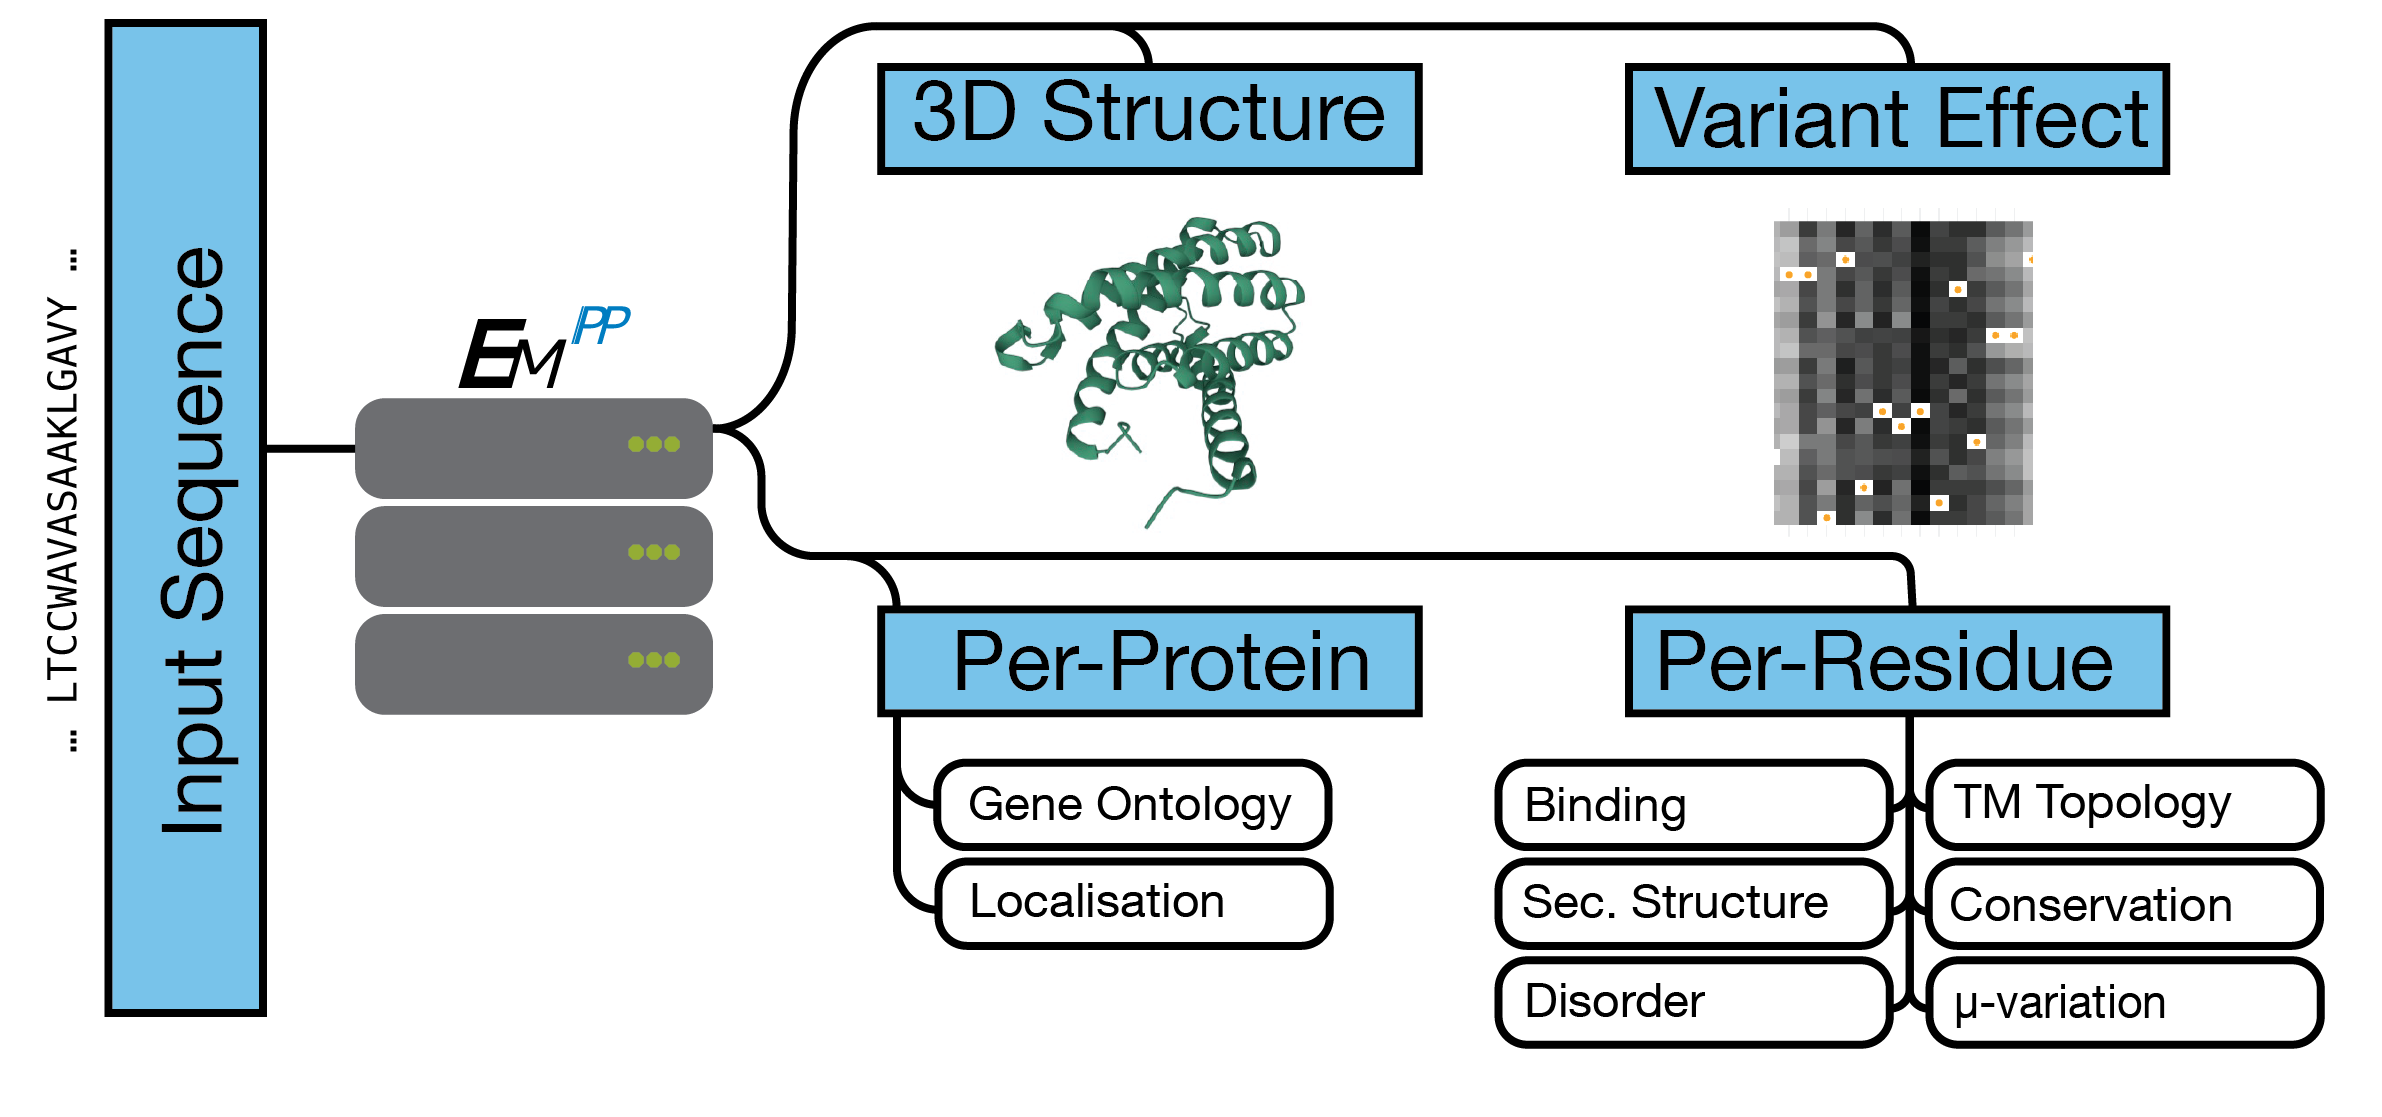
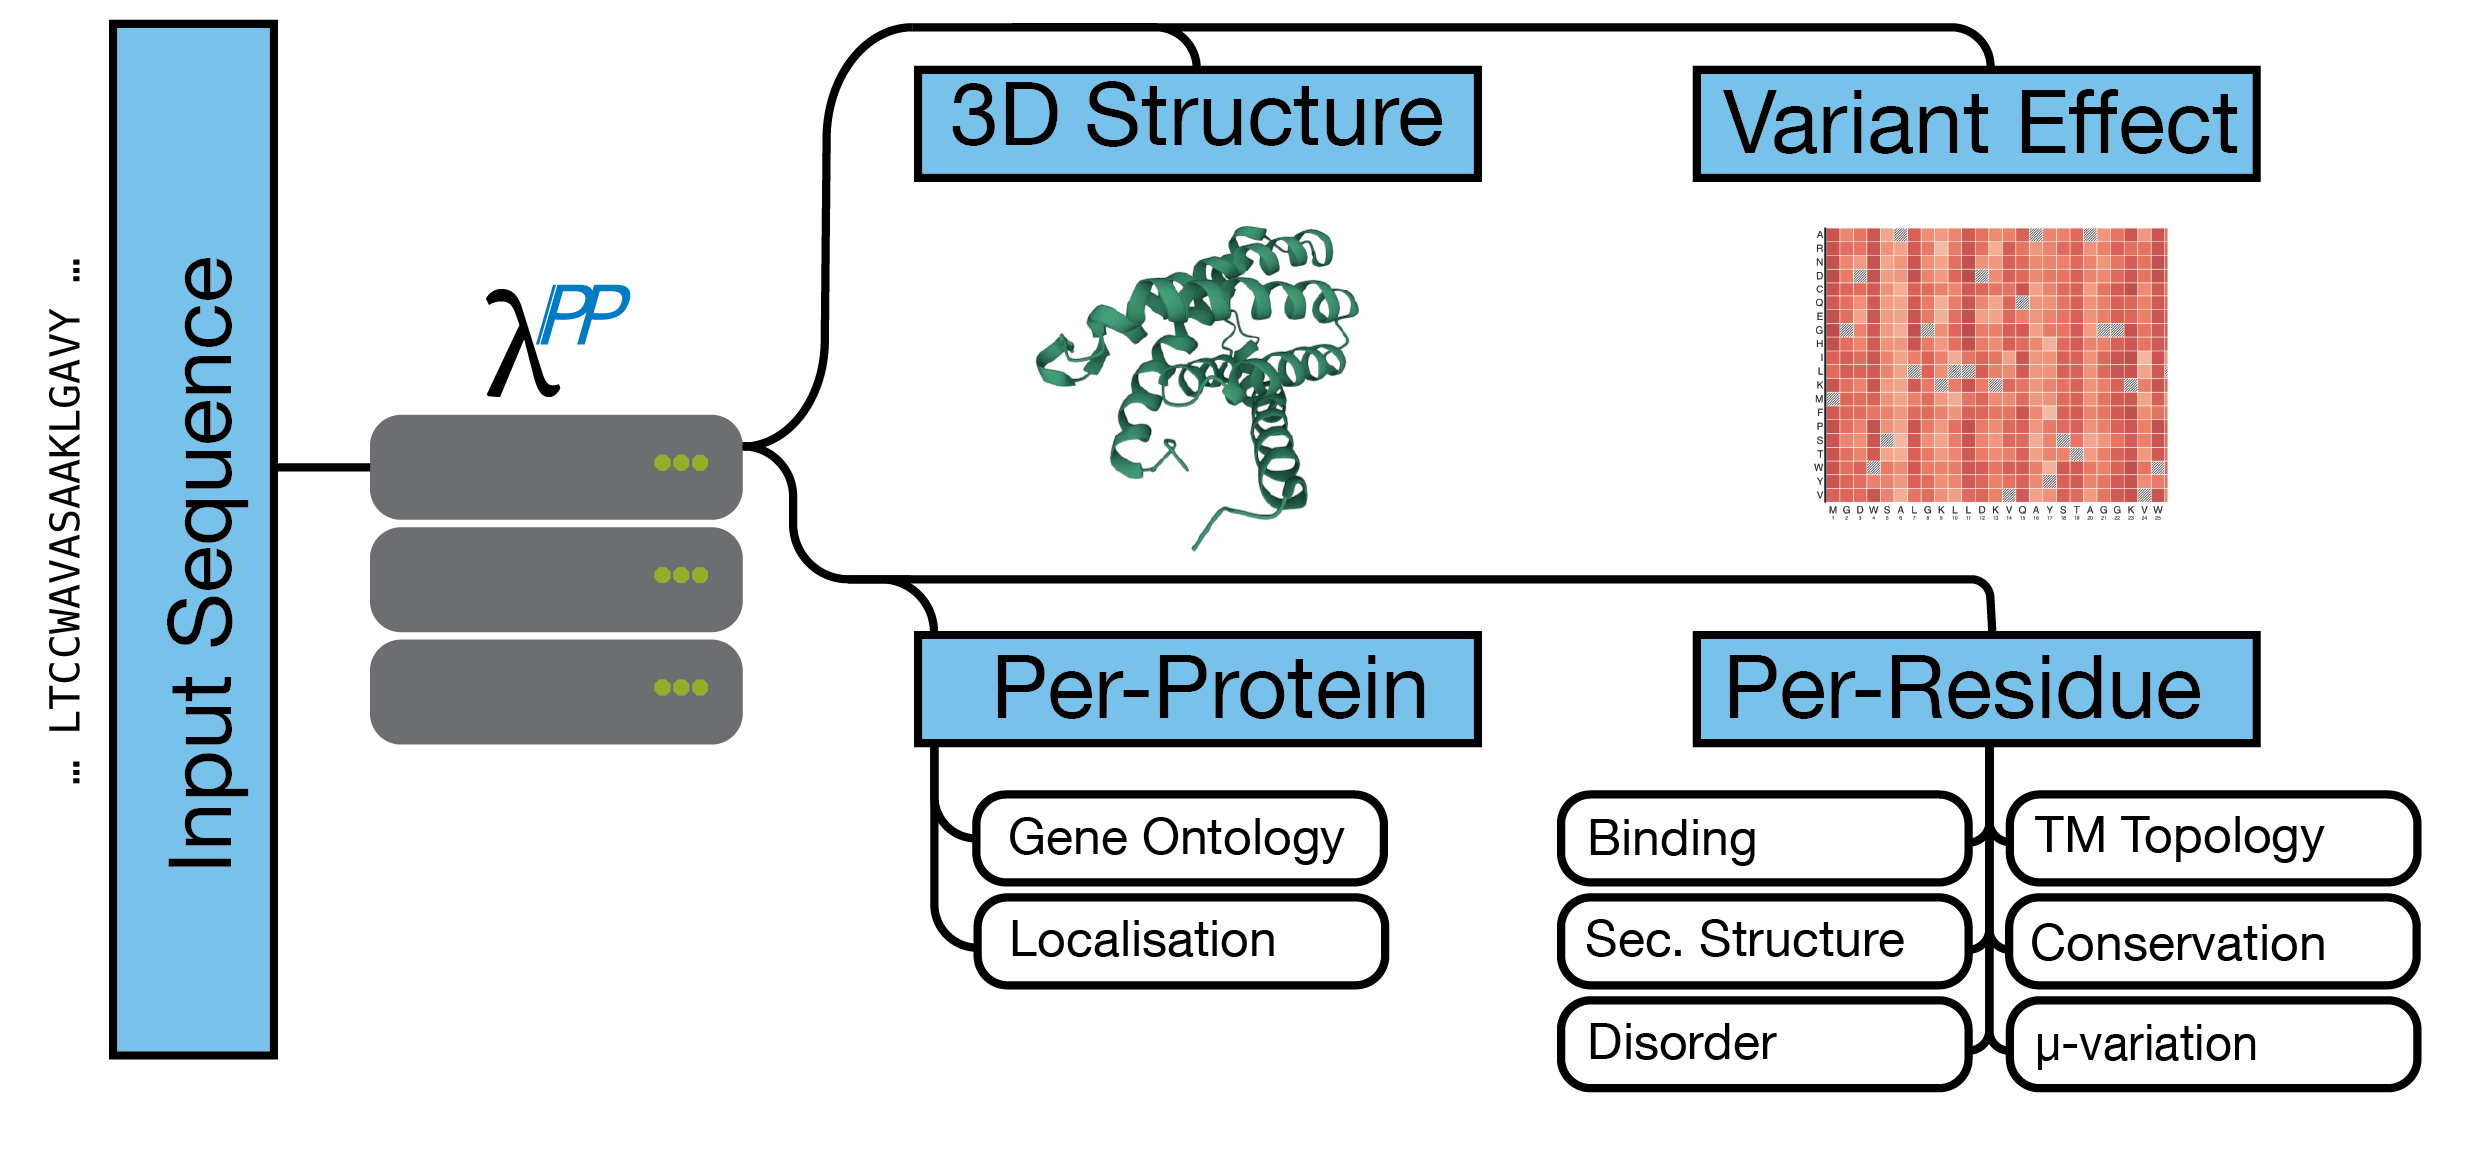
Update picture

diff --git a/src/components/HowitWorks.jsx b/src/components/HowitWorks.jsx
@@ -27,15 +27,14 @@ export default function HowitWorks() {
                         {/* NOTE: without col-md-10 the paragraph does not format correctly.*/}
                         <strong>LambdaPP pipeline:</strong> Starting with an
                         amino acid sequence, LambdaPP orchestrates the
-                        prediction of (1) protein structure using ColabFold
-                        (45); (2) per-protein features: Gene Ontology (GO)
-                        annotations using goPredSim (38), subcellular location
-                        using LA (64); (3) per-residue features: binding
-                        residues using bindEmbed21DL (39), conservation using
-                        ProtT5cons (42), disorder using SETH (29), secondary
-                        structure using ProtT5-sec (23), helical and barrel
-                        transmembrane (TM) regions using TMbed (13); and (4)
-                        variant effect scores using VESPAl (42).
+                        prediction of protein structure using ColabFold ; (2)
+                        per-protein features: Gene Ontology (GO) annotations
+                        using goPredSim, subcellular location using LA; (3)
+                        per-residue features: binding residues using
+                        bindEmbed21DL, conservation using ProtT5cons, disorder
+                        using SETH, secondary structure using ProtT5-sec,
+                        helical and barrel transmembrane (TM) regions using
+                        TMbed; and variant effect scores using VESPAl.
                     </p>
                 </Col>
             </Row>
